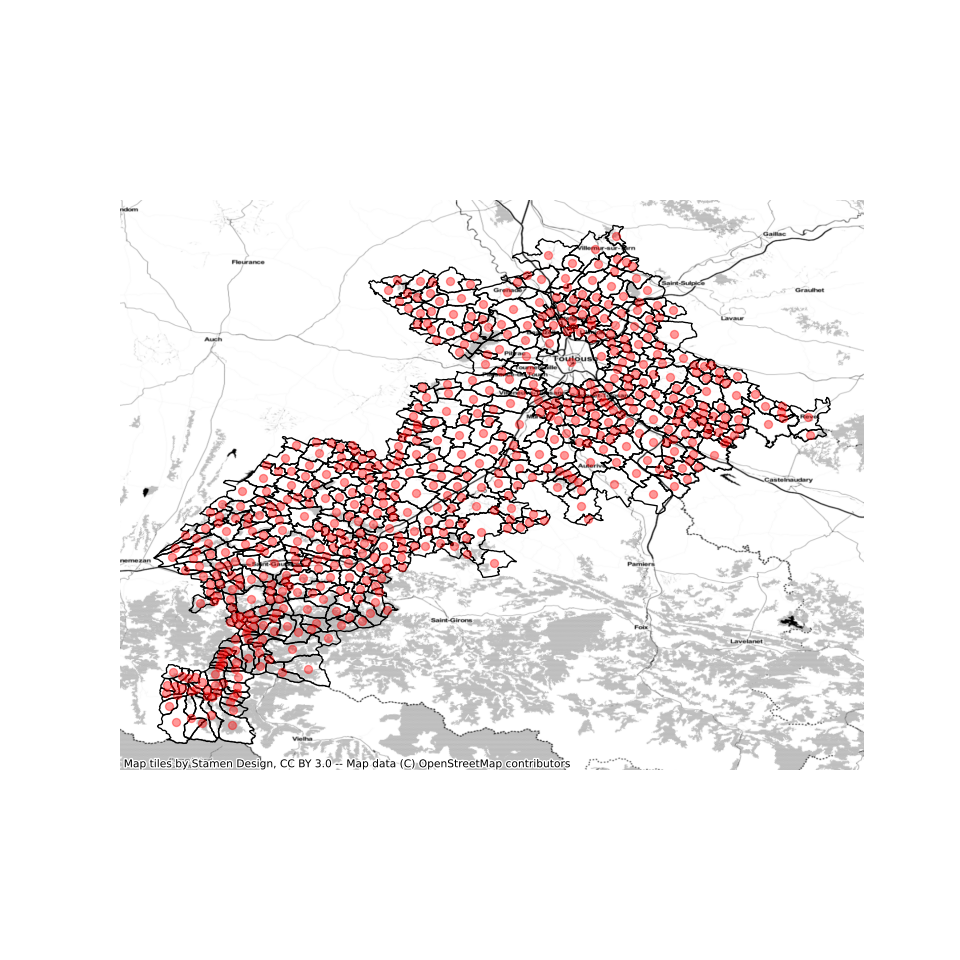
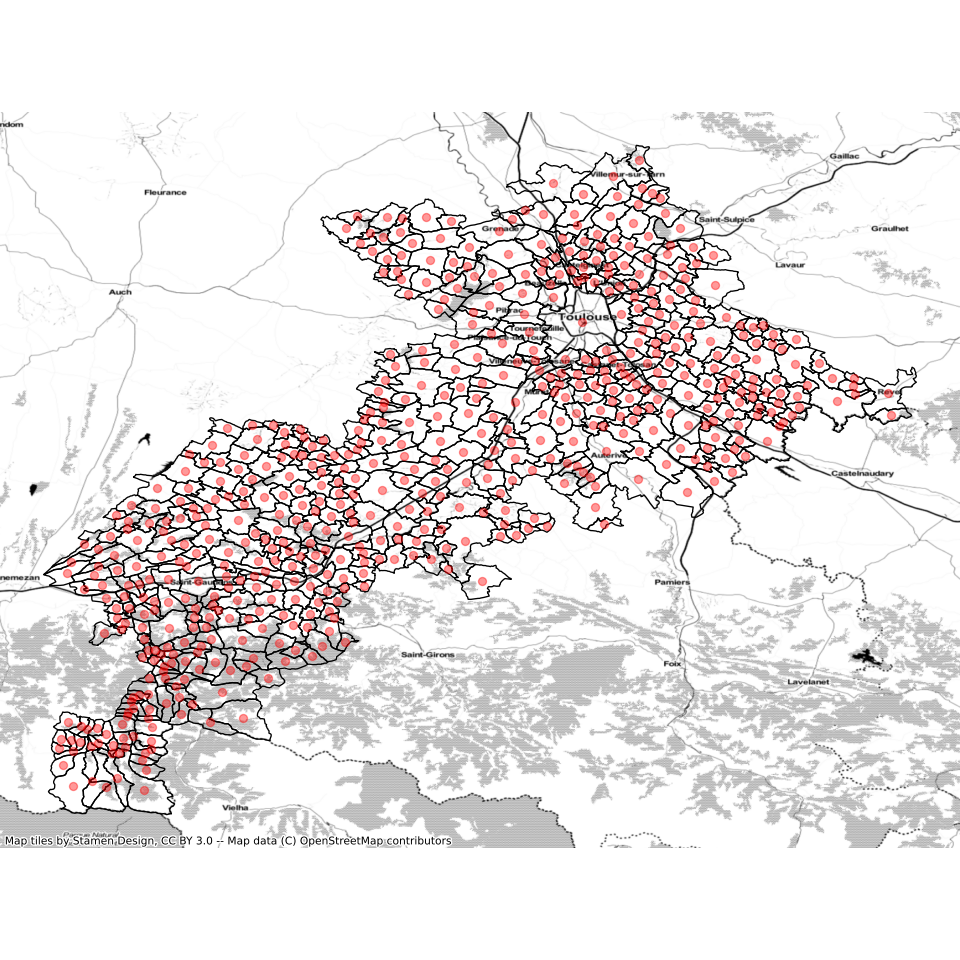
update

diff --git a/content/manipulation/posts/03_geopandas/tutorial/index.md b/content/manipulation/posts/03_geopandas/tutorial/index.md
@@ -271,6 +271,7 @@ communes[communes['dep'].isin(['75','92','93','94'])].plot(ax = ax, zorder=1, ed
                                                            color = None)
 ctx.add_basemap(ax, crs = stations.crs.to_string(), source = ctx.providers.Stamen.Watercolor)
 ax.set_axis_off()
+plt.tight_layout(pad=0)
 plt.show()
 ```
 
@@ -418,6 +419,7 @@ communes[communes['dep'] == "31"].plot(ax = ax, zorder=1, edgecolor = "black", f
                                                            color = None)
 ctx.add_basemap(ax, crs = stations.crs.to_string(), source = ctx.providers.Stamen.Toner)
 ax.set_axis_off()
+plt.tight_layout(pad=0)
 plt.show()
 ```
 
